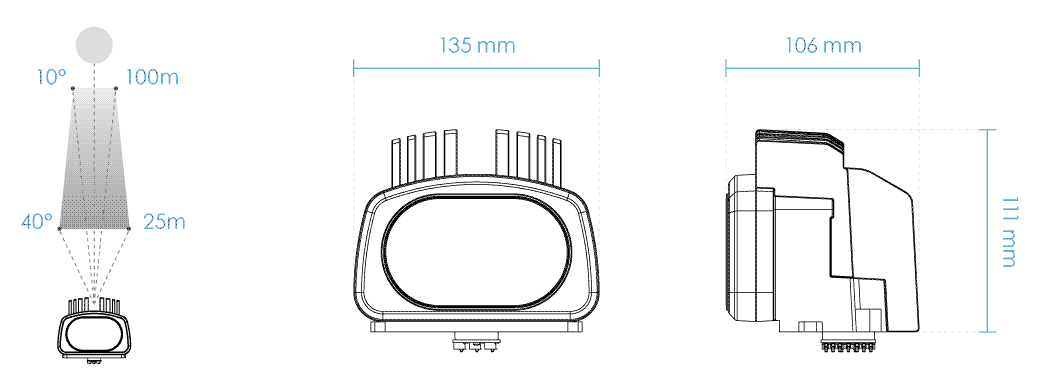
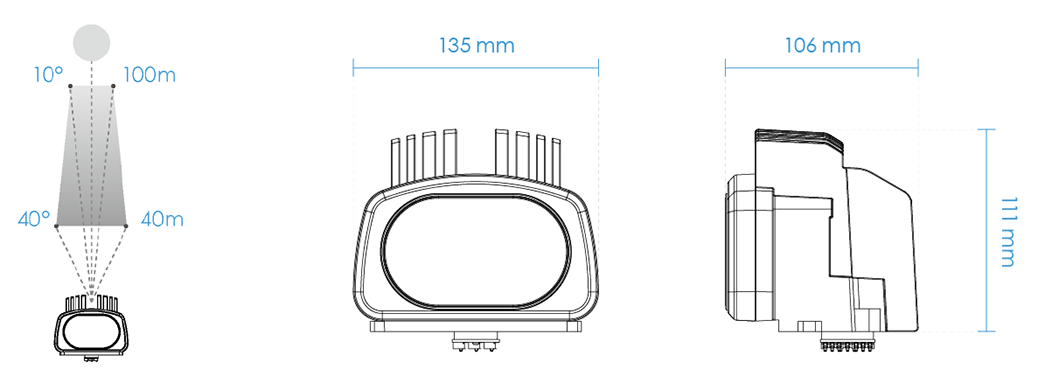
Updates info of illuminator and enclosure accessories

diff --git a/accessories-index/index.html b/accessories-index/index.html
@@ -3900,7 +3900,7 @@
         <div class="block">
          <h1 class="jplist_pro_title_acc_model">AI-106</h1>
          <h1 class="jplist_pro_title_acc_pn">900044200G</h1>
-         <p class="jplist_pro_des_acc">-40&deg;C ~ 50&deg;C, 6W IR illuminator, adjustable beam angle 10&deg; ~ 40&deg;, 25 ~ 100 m</p>
+         <p class="jplist_pro_des_acc">-40&deg;C ~ 50&deg;C, 6W IR illuminator, adjustable beam angle 10&deg; ~ 40&deg;, 40 ~ 100 m</p>
          <div class="acc_btn">
            <a href="accessories/ai-106.html" target="_blank" class="btn btn-default btn-sm">More Info.</a>&nbsp;
            <a href="http://download.vivotek.com/downloadfile/downloads/datasheets/ai-106datasheet_en.pdf" target="_blank" class="btn btn-default btn-sm">Datasheet</a>&nbsp;
@@ -3925,7 +3925,7 @@
         <div class="block">
          <h1 class="jplist_pro_title_acc_model">AI-108</h1>
          <h1 class="jplist_pro_title_acc_pn">900046000G</h1>
-         <p class="jplist_pro_des_acc">-40°C ~ 50°C, 24W IR illuminator, adjustable beam angle 10° ~ 30°, 80 ~ 160 m</p>
+         <p class="jplist_pro_des_acc">-40°C ~ 50°C, 24W IR illuminator, adjustable beam angle 10° ~ 30°, 70 ~ 200 m</p>
          <div class="acc_btn">
            <a href="accessories/ai-108.html" target="_blank" class="btn btn-default btn-sm">More Info.</a>&nbsp;
            <a href="http://download.vivotek.com/downloadfile/downloads/datasheets/ai-108datasheet_en.pdf" target="_blank" class="btn btn-default btn-sm">Datasheet</a>&nbsp;
@@ -3950,7 +3950,7 @@
         <div class="block">
          <h1 class="jplist_pro_title_acc_model">AI-109</h1>
          <h1 class="jplist_pro_title_acc_pn">900046100G</h1>
-         <p class="jplist_pro_des_acc">-40°C ~ 50°C, 48W IR illuminator, adjustable beam angle 10° ~ 30°, 120 ~ 250 m</p>
+         <p class="jplist_pro_des_acc">-40°C ~ 50°C, 48W IR illuminator, adjustable beam angle 10° ~ 30°, 150 ~ 350 m</p>
          <div class="acc_btn">
            <a href="accessories/ai-109.html" target="_blank" class="btn btn-default btn-sm">More Info.</a>&nbsp;
            <a href="http://download.vivotek.com/downloadfile/downloads/datasheets/ai-109datasheet_en.pdf" target="_blank" class="btn btn-default btn-sm">Datasheet</a>&nbsp;

diff --git a/cable/index.html b/cable/index.html
@@ -3900,7 +3900,7 @@
         <div class="block">
          <h1 class="jplist_pro_title_acc_model">AI-106</h1>
          <h1 class="jplist_pro_title_acc_pn">900044200G</h1>
-         <p class="jplist_pro_des_acc">-40&deg;C ~ 50&deg;C, 6W IR illuminator, adjustable beam angle 10&deg; ~ 40&deg;, 25 ~ 100 m</p>
+         <p class="jplist_pro_des_acc">-40&deg;C ~ 50&deg;C, 6W IR illuminator, adjustable beam angle 10&deg; ~ 40&deg;, 40 ~ 100 m</p>
          <div class="acc_btn">
            <a href="accessories/ai-106.html" target="_blank" class="btn btn-default btn-sm">More Info.</a>&nbsp;
            <a href="http://download.vivotek.com/downloadfile/downloads/datasheets/ai-106datasheet_en.pdf" target="_blank" class="btn btn-default btn-sm">Datasheet</a>&nbsp;
@@ -3925,7 +3925,7 @@
         <div class="block">
          <h1 class="jplist_pro_title_acc_model">AI-108</h1>
          <h1 class="jplist_pro_title_acc_pn">900046000G</h1>
-         <p class="jplist_pro_des_acc">-40°C ~ 50°C, 24W IR illuminator, adjustable beam angle 10° ~ 30°, 80 ~ 160 m</p>
+         <p class="jplist_pro_des_acc">-40°C ~ 50°C, 24W IR illuminator, adjustable beam angle 10° ~ 30°, 70 ~ 200 m</p>
          <div class="acc_btn">
            <a href="accessories/ai-108.html" target="_blank" class="btn btn-default btn-sm">More Info.</a>&nbsp;
            <a href="http://download.vivotek.com/downloadfile/downloads/datasheets/ai-108datasheet_en.pdf" target="_blank" class="btn btn-default btn-sm">Datasheet</a>&nbsp;
@@ -3950,7 +3950,7 @@
         <div class="block">
          <h1 class="jplist_pro_title_acc_model">AI-109</h1>
          <h1 class="jplist_pro_title_acc_pn">900046100G</h1>
-         <p class="jplist_pro_des_acc">-40°C ~ 50°C, 48W IR illuminator, adjustable beam angle 10° ~ 30°, 120 ~ 250 m</p>
+         <p class="jplist_pro_des_acc">-40°C ~ 50°C, 48W IR illuminator, adjustable beam angle 10° ~ 30°, 150 ~ 350 m</p>
          <div class="acc_btn">
            <a href="accessories/ai-109.html" target="_blank" class="btn btn-default btn-sm">More Info.</a>&nbsp;
            <a href="http://download.vivotek.com/downloadfile/downloads/datasheets/ai-109datasheet_en.pdf" target="_blank" class="btn btn-default btn-sm">Datasheet</a>&nbsp;

diff --git a/enclosure/index.html b/enclosure/index.html
@@ -3900,7 +3900,7 @@
         <div class="block">
          <h1 class="jplist_pro_title_acc_model">AI-106</h1>
          <h1 class="jplist_pro_title_acc_pn">900044200G</h1>
-         <p class="jplist_pro_des_acc">-40&deg;C ~ 50&deg;C, 6W IR illuminator, adjustable beam angle 10&deg; ~ 40&deg;, 25 ~ 100 m</p>
+         <p class="jplist_pro_des_acc">-40&deg;C ~ 50&deg;C, 6W IR illuminator, adjustable beam angle 10&deg; ~ 40&deg;, 40 ~ 100 m</p>
          <div class="acc_btn">
            <a href="accessories/ai-106.html" target="_blank" class="btn btn-default btn-sm">More Info.</a>&nbsp;
            <a href="http://download.vivotek.com/downloadfile/downloads/datasheets/ai-106datasheet_en.pdf" target="_blank" class="btn btn-default btn-sm">Datasheet</a>&nbsp;
@@ -3925,7 +3925,7 @@
         <div class="block">
          <h1 class="jplist_pro_title_acc_model">AI-108</h1>
          <h1 class="jplist_pro_title_acc_pn">900046000G</h1>
-         <p class="jplist_pro_des_acc">-40°C ~ 50°C, 24W IR illuminator, adjustable beam angle 10° ~ 30°, 80 ~ 160 m</p>
+         <p class="jplist_pro_des_acc">-40°C ~ 50°C, 24W IR illuminator, adjustable beam angle 10° ~ 30°, 70 ~ 200 m</p>
          <div class="acc_btn">
            <a href="accessories/ai-108.html" target="_blank" class="btn btn-default btn-sm">More Info.</a>&nbsp;
            <a href="http://download.vivotek.com/downloadfile/downloads/datasheets/ai-108datasheet_en.pdf" target="_blank" class="btn btn-default btn-sm">Datasheet</a>&nbsp;
@@ -3950,7 +3950,7 @@
         <div class="block">
          <h1 class="jplist_pro_title_acc_model">AI-109</h1>
          <h1 class="jplist_pro_title_acc_pn">900046100G</h1>
-         <p class="jplist_pro_des_acc">-40°C ~ 50°C, 48W IR illuminator, adjustable beam angle 10° ~ 30°, 120 ~ 250 m</p>
+         <p class="jplist_pro_des_acc">-40°C ~ 50°C, 48W IR illuminator, adjustable beam angle 10° ~ 30°, 150 ~ 350 m</p>
          <div class="acc_btn">
            <a href="accessories/ai-109.html" target="_blank" class="btn btn-default btn-sm">More Info.</a>&nbsp;
            <a href="http://download.vivotek.com/downloadfile/downloads/datasheets/ai-109datasheet_en.pdf" target="_blank" class="btn btn-default btn-sm">Datasheet</a>&nbsp;

diff --git a/illuminator/index.html b/illuminator/index.html
@@ -3900,7 +3900,7 @@
         <div class="block">
          <h1 class="jplist_pro_title_acc_model">AI-106</h1>
          <h1 class="jplist_pro_title_acc_pn">900044200G</h1>
-         <p class="jplist_pro_des_acc">-40&deg;C ~ 50&deg;C, 6W IR illuminator, adjustable beam angle 10&deg; ~ 40&deg;, 25 ~ 100 m</p>
+         <p class="jplist_pro_des_acc">-40&deg;C ~ 50&deg;C, 6W IR illuminator, adjustable beam angle 10&deg; ~ 40&deg;, 40 ~ 100 m</p>
          <div class="acc_btn">
            <a href="accessories/ai-106.html" target="_blank" class="btn btn-default btn-sm">More Info.</a>&nbsp;
            <a href="http://download.vivotek.com/downloadfile/downloads/datasheets/ai-106datasheet_en.pdf" target="_blank" class="btn btn-default btn-sm">Datasheet</a>&nbsp;
@@ -3925,7 +3925,7 @@
         <div class="block">
          <h1 class="jplist_pro_title_acc_model">AI-108</h1>
          <h1 class="jplist_pro_title_acc_pn">900046000G</h1>
-         <p class="jplist_pro_des_acc">-40°C ~ 50°C, 24W IR illuminator, adjustable beam angle 10° ~ 30°, 80 ~ 160 m</p>
+         <p class="jplist_pro_des_acc">-40°C ~ 50°C, 24W IR illuminator, adjustable beam angle 10° ~ 30°, 70 ~ 200 m</p>
          <div class="acc_btn">
            <a href="accessories/ai-108.html" target="_blank" class="btn btn-default btn-sm">More Info.</a>&nbsp;
            <a href="http://download.vivotek.com/downloadfile/downloads/datasheets/ai-108datasheet_en.pdf" target="_blank" class="btn btn-default btn-sm">Datasheet</a>&nbsp;
@@ -3950,7 +3950,7 @@
         <div class="block">
          <h1 class="jplist_pro_title_acc_model">AI-109</h1>
          <h1 class="jplist_pro_title_acc_pn">900046100G</h1>
-         <p class="jplist_pro_des_acc">-40°C ~ 50°C, 48W IR illuminator, adjustable beam angle 10° ~ 30°, 120 ~ 250 m</p>
+         <p class="jplist_pro_des_acc">-40°C ~ 50°C, 48W IR illuminator, adjustable beam angle 10° ~ 30°, 150 ~ 350 m</p>
          <div class="acc_btn">
            <a href="accessories/ai-109.html" target="_blank" class="btn btn-default btn-sm">More Info.</a>&nbsp;
            <a href="http://download.vivotek.com/downloadfile/downloads/datasheets/ai-109datasheet_en.pdf" target="_blank" class="btn btn-default btn-sm">Datasheet</a>&nbsp;

diff --git a/industrial-power-supply/index.html b/industrial-power-supply/index.html
@@ -3900,7 +3900,7 @@
         <div class="block">
          <h1 class="jplist_pro_title_acc_model">AI-106</h1>
          <h1 class="jplist_pro_title_acc_pn">900044200G</h1>
-         <p class="jplist_pro_des_acc">-40&deg;C ~ 50&deg;C, 6W IR illuminator, adjustable beam angle 10&deg; ~ 40&deg;, 25 ~ 100 m</p>
+         <p class="jplist_pro_des_acc">-40&deg;C ~ 50&deg;C, 6W IR illuminator, adjustable beam angle 10&deg; ~ 40&deg;, 40 ~ 100 m</p>
          <div class="acc_btn">
            <a href="accessories/ai-106.html" target="_blank" class="btn btn-default btn-sm">More Info.</a>&nbsp;
            <a href="http://download.vivotek.com/downloadfile/downloads/datasheets/ai-106datasheet_en.pdf" target="_blank" class="btn btn-default btn-sm">Datasheet</a>&nbsp;
@@ -3925,7 +3925,7 @@
         <div class="block">
          <h1 class="jplist_pro_title_acc_model">AI-108</h1>
          <h1 class="jplist_pro_title_acc_pn">900046000G</h1>
-         <p class="jplist_pro_des_acc">-40°C ~ 50°C, 24W IR illuminator, adjustable beam angle 10° ~ 30°, 80 ~ 160 m</p>
+         <p class="jplist_pro_des_acc">-40°C ~ 50°C, 24W IR illuminator, adjustable beam angle 10° ~ 30°, 70 ~ 200 m</p>
          <div class="acc_btn">
            <a href="accessories/ai-108.html" target="_blank" class="btn btn-default btn-sm">More Info.</a>&nbsp;
            <a href="http://download.vivotek.com/downloadfile/downloads/datasheets/ai-108datasheet_en.pdf" target="_blank" class="btn btn-default btn-sm">Datasheet</a>&nbsp;
@@ -3950,7 +3950,7 @@
         <div class="block">
          <h1 class="jplist_pro_title_acc_model">AI-109</h1>
          <h1 class="jplist_pro_title_acc_pn">900046100G</h1>
-         <p class="jplist_pro_des_acc">-40°C ~ 50°C, 48W IR illuminator, adjustable beam angle 10° ~ 30°, 120 ~ 250 m</p>
+         <p class="jplist_pro_des_acc">-40°C ~ 50°C, 48W IR illuminator, adjustable beam angle 10° ~ 30°, 150 ~ 350 m</p>
          <div class="acc_btn">
            <a href="accessories/ai-109.html" target="_blank" class="btn btn-default btn-sm">More Info.</a>&nbsp;
            <a href="http://download.vivotek.com/downloadfile/downloads/datasheets/ai-109datasheet_en.pdf" target="_blank" class="btn btn-default btn-sm">Datasheet</a>&nbsp;

diff --git a/joystick/index.html b/joystick/index.html
@@ -3900,7 +3900,7 @@
         <div class="block">
          <h1 class="jplist_pro_title_acc_model">AI-106</h1>
          <h1 class="jplist_pro_title_acc_pn">900044200G</h1>
-         <p class="jplist_pro_des_acc">-40&deg;C ~ 50&deg;C, 6W IR illuminator, adjustable beam angle 10&deg; ~ 40&deg;, 25 ~ 100 m</p>
+         <p class="jplist_pro_des_acc">-40&deg;C ~ 50&deg;C, 6W IR illuminator, adjustable beam angle 10&deg; ~ 40&deg;, 40 ~ 100 m</p>
          <div class="acc_btn">
            <a href="accessories/ai-106.html" target="_blank" class="btn btn-default btn-sm">More Info.</a>&nbsp;
            <a href="http://download.vivotek.com/downloadfile/downloads/datasheets/ai-106datasheet_en.pdf" target="_blank" class="btn btn-default btn-sm">Datasheet</a>&nbsp;
@@ -3925,7 +3925,7 @@
         <div class="block">
          <h1 class="jplist_pro_title_acc_model">AI-108</h1>
          <h1 class="jplist_pro_title_acc_pn">900046000G</h1>
-         <p class="jplist_pro_des_acc">-40°C ~ 50°C, 24W IR illuminator, adjustable beam angle 10° ~ 30°, 80 ~ 160 m</p>
+         <p class="jplist_pro_des_acc">-40°C ~ 50°C, 24W IR illuminator, adjustable beam angle 10° ~ 30°, 70 ~ 200 m</p>
          <div class="acc_btn">
            <a href="accessories/ai-108.html" target="_blank" class="btn btn-default btn-sm">More Info.</a>&nbsp;
            <a href="http://download.vivotek.com/downloadfile/downloads/datasheets/ai-108datasheet_en.pdf" target="_blank" class="btn btn-default btn-sm">Datasheet</a>&nbsp;
@@ -3950,7 +3950,7 @@
         <div class="block">
          <h1 class="jplist_pro_title_acc_model">AI-109</h1>
          <h1 class="jplist_pro_title_acc_pn">900046100G</h1>
-         <p class="jplist_pro_des_acc">-40°C ~ 50°C, 48W IR illuminator, adjustable beam angle 10° ~ 30°, 120 ~ 250 m</p>
+         <p class="jplist_pro_des_acc">-40°C ~ 50°C, 48W IR illuminator, adjustable beam angle 10° ~ 30°, 150 ~ 350 m</p>
          <div class="acc_btn">
            <a href="accessories/ai-109.html" target="_blank" class="btn btn-default btn-sm">More Info.</a>&nbsp;
            <a href="http://download.vivotek.com/downloadfile/downloads/datasheets/ai-109datasheet_en.pdf" target="_blank" class="btn btn-default btn-sm">Datasheet</a>&nbsp;

diff --git a/lens/index.html b/lens/index.html
@@ -3900,7 +3900,7 @@
         <div class="block">
          <h1 class="jplist_pro_title_acc_model">AI-106</h1>
          <h1 class="jplist_pro_title_acc_pn">900044200G</h1>
-         <p class="jplist_pro_des_acc">-40&deg;C ~ 50&deg;C, 6W IR illuminator, adjustable beam angle 10&deg; ~ 40&deg;, 25 ~ 100 m</p>
+         <p class="jplist_pro_des_acc">-40&deg;C ~ 50&deg;C, 6W IR illuminator, adjustable beam angle 10&deg; ~ 40&deg;, 40 ~ 100 m</p>
          <div class="acc_btn">
            <a href="accessories/ai-106.html" target="_blank" class="btn btn-default btn-sm">More Info.</a>&nbsp;
            <a href="http://download.vivotek.com/downloadfile/downloads/datasheets/ai-106datasheet_en.pdf" target="_blank" class="btn btn-default btn-sm">Datasheet</a>&nbsp;
@@ -3925,7 +3925,7 @@
         <div class="block">
          <h1 class="jplist_pro_title_acc_model">AI-108</h1>
          <h1 class="jplist_pro_title_acc_pn">900046000G</h1>
-         <p class="jplist_pro_des_acc">-40°C ~ 50°C, 24W IR illuminator, adjustable beam angle 10° ~ 30°, 80 ~ 160 m</p>
+         <p class="jplist_pro_des_acc">-40°C ~ 50°C, 24W IR illuminator, adjustable beam angle 10° ~ 30°, 70 ~ 200 m</p>
          <div class="acc_btn">
            <a href="accessories/ai-108.html" target="_blank" class="btn btn-default btn-sm">More Info.</a>&nbsp;
            <a href="http://download.vivotek.com/downloadfile/downloads/datasheets/ai-108datasheet_en.pdf" target="_blank" class="btn btn-default btn-sm">Datasheet</a>&nbsp;
@@ -3950,7 +3950,7 @@
         <div class="block">
          <h1 class="jplist_pro_title_acc_model">AI-109</h1>
          <h1 class="jplist_pro_title_acc_pn">900046100G</h1>
-         <p class="jplist_pro_des_acc">-40°C ~ 50°C, 48W IR illuminator, adjustable beam angle 10° ~ 30°, 120 ~ 250 m</p>
+         <p class="jplist_pro_des_acc">-40°C ~ 50°C, 48W IR illuminator, adjustable beam angle 10° ~ 30°, 150 ~ 350 m</p>
          <div class="acc_btn">
            <a href="accessories/ai-109.html" target="_blank" class="btn btn-default btn-sm">More Info.</a>&nbsp;
            <a href="http://download.vivotek.com/downloadfile/downloads/datasheets/ai-109datasheet_en.pdf" target="_blank" class="btn btn-default btn-sm">Datasheet</a>&nbsp;

diff --git a/mounting-kit/index.html b/mounting-kit/index.html
@@ -3900,7 +3900,7 @@
         <div class="block">
          <h1 class="jplist_pro_title_acc_model">AI-106</h1>
          <h1 class="jplist_pro_title_acc_pn">900044200G</h1>
-         <p class="jplist_pro_des_acc">-40&deg;C ~ 50&deg;C, 6W IR illuminator, adjustable beam angle 10&deg; ~ 40&deg;, 25 ~ 100 m</p>
+         <p class="jplist_pro_des_acc">-40&deg;C ~ 50&deg;C, 6W IR illuminator, adjustable beam angle 10&deg; ~ 40&deg;, 40 ~ 100 m</p>
          <div class="acc_btn">
            <a href="accessories/ai-106.html" target="_blank" class="btn btn-default btn-sm">More Info.</a>&nbsp;
            <a href="http://download.vivotek.com/downloadfile/downloads/datasheets/ai-106datasheet_en.pdf" target="_blank" class="btn btn-default btn-sm">Datasheet</a>&nbsp;
@@ -3925,7 +3925,7 @@
         <div class="block">
          <h1 class="jplist_pro_title_acc_model">AI-108</h1>
          <h1 class="jplist_pro_title_acc_pn">900046000G</h1>
-         <p class="jplist_pro_des_acc">-40°C ~ 50°C, 24W IR illuminator, adjustable beam angle 10° ~ 30°, 80 ~ 160 m</p>
+         <p class="jplist_pro_des_acc">-40°C ~ 50°C, 24W IR illuminator, adjustable beam angle 10° ~ 30°, 70 ~ 200 m</p>
          <div class="acc_btn">
            <a href="accessories/ai-108.html" target="_blank" class="btn btn-default btn-sm">More Info.</a>&nbsp;
            <a href="http://download.vivotek.com/downloadfile/downloads/datasheets/ai-108datasheet_en.pdf" target="_blank" class="btn btn-default btn-sm">Datasheet</a>&nbsp;
@@ -3950,7 +3950,7 @@
         <div class="block">
          <h1 class="jplist_pro_title_acc_model">AI-109</h1>
          <h1 class="jplist_pro_title_acc_pn">900046100G</h1>
-         <p class="jplist_pro_des_acc">-40°C ~ 50°C, 48W IR illuminator, adjustable beam angle 10° ~ 30°, 120 ~ 250 m</p>
+         <p class="jplist_pro_des_acc">-40°C ~ 50°C, 48W IR illuminator, adjustable beam angle 10° ~ 30°, 150 ~ 350 m</p>
          <div class="acc_btn">
            <a href="accessories/ai-109.html" target="_blank" class="btn btn-default btn-sm">More Info.</a>&nbsp;
            <a href="http://download.vivotek.com/downloadfile/downloads/datasheets/ai-109datasheet_en.pdf" target="_blank" class="btn btn-default btn-sm">Datasheet</a>&nbsp;

diff --git a/power-supply/index.html b/power-supply/index.html
@@ -3900,7 +3900,7 @@
         <div class="block">
          <h1 class="jplist_pro_title_acc_model">AI-106</h1>
          <h1 class="jplist_pro_title_acc_pn">900044200G</h1>
-         <p class="jplist_pro_des_acc">-40&deg;C ~ 50&deg;C, 6W IR illuminator, adjustable beam angle 10&deg; ~ 40&deg;, 25 ~ 100 m</p>
+         <p class="jplist_pro_des_acc">-40&deg;C ~ 50&deg;C, 6W IR illuminator, adjustable beam angle 10&deg; ~ 40&deg;, 40 ~ 100 m</p>
          <div class="acc_btn">
            <a href="accessories/ai-106.html" target="_blank" class="btn btn-default btn-sm">More Info.</a>&nbsp;
            <a href="http://download.vivotek.com/downloadfile/downloads/datasheets/ai-106datasheet_en.pdf" target="_blank" class="btn btn-default btn-sm">Datasheet</a>&nbsp;
@@ -3925,7 +3925,7 @@
         <div class="block">
          <h1 class="jplist_pro_title_acc_model">AI-108</h1>
          <h1 class="jplist_pro_title_acc_pn">900046000G</h1>
-         <p class="jplist_pro_des_acc">-40°C ~ 50°C, 24W IR illuminator, adjustable beam angle 10° ~ 30°, 80 ~ 160 m</p>
+         <p class="jplist_pro_des_acc">-40°C ~ 50°C, 24W IR illuminator, adjustable beam angle 10° ~ 30°, 70 ~ 200 m</p>
          <div class="acc_btn">
            <a href="accessories/ai-108.html" target="_blank" class="btn btn-default btn-sm">More Info.</a>&nbsp;
            <a href="http://download.vivotek.com/downloadfile/downloads/datasheets/ai-108datasheet_en.pdf" target="_blank" class="btn btn-default btn-sm">Datasheet</a>&nbsp;
@@ -3950,7 +3950,7 @@
         <div class="block">
          <h1 class="jplist_pro_title_acc_model">AI-109</h1>
          <h1 class="jplist_pro_title_acc_pn">900046100G</h1>
-         <p class="jplist_pro_des_acc">-40°C ~ 50°C, 48W IR illuminator, adjustable beam angle 10° ~ 30°, 120 ~ 250 m</p>
+         <p class="jplist_pro_des_acc">-40°C ~ 50°C, 48W IR illuminator, adjustable beam angle 10° ~ 30°, 150 ~ 350 m</p>
          <div class="acc_btn">
            <a href="accessories/ai-109.html" target="_blank" class="btn btn-default btn-sm">More Info.</a>&nbsp;
            <a href="http://download.vivotek.com/downloadfile/downloads/datasheets/ai-109datasheet_en.pdf" target="_blank" class="btn btn-default btn-sm">Datasheet</a>&nbsp;

diff --git a/storage/index.html b/storage/index.html
@@ -3900,7 +3900,7 @@
         <div class="block">
          <h1 class="jplist_pro_title_acc_model">AI-106</h1>
          <h1 class="jplist_pro_title_acc_pn">900044200G</h1>
-         <p class="jplist_pro_des_acc">-40&deg;C ~ 50&deg;C, 6W IR illuminator, adjustable beam angle 10&deg; ~ 40&deg;, 25 ~ 100 m</p>
+         <p class="jplist_pro_des_acc">-40&deg;C ~ 50&deg;C, 6W IR illuminator, adjustable beam angle 10&deg; ~ 40&deg;, 40 ~ 100 m</p>
          <div class="acc_btn">
            <a href="accessories/ai-106.html" target="_blank" class="btn btn-default btn-sm">More Info.</a>&nbsp;
            <a href="http://download.vivotek.com/downloadfile/downloads/datasheets/ai-106datasheet_en.pdf" target="_blank" class="btn btn-default btn-sm">Datasheet</a>&nbsp;
@@ -3925,7 +3925,7 @@
         <div class="block">
          <h1 class="jplist_pro_title_acc_model">AI-108</h1>
          <h1 class="jplist_pro_title_acc_pn">900046000G</h1>
-         <p class="jplist_pro_des_acc">-40°C ~ 50°C, 24W IR illuminator, adjustable beam angle 10° ~ 30°, 80 ~ 160 m</p>
+         <p class="jplist_pro_des_acc">-40°C ~ 50°C, 24W IR illuminator, adjustable beam angle 10° ~ 30°, 70 ~ 200 m</p>
          <div class="acc_btn">
            <a href="accessories/ai-108.html" target="_blank" class="btn btn-default btn-sm">More Info.</a>&nbsp;
            <a href="http://download.vivotek.com/downloadfile/downloads/datasheets/ai-108datasheet_en.pdf" target="_blank" class="btn btn-default btn-sm">Datasheet</a>&nbsp;
@@ -3950,7 +3950,7 @@
         <div class="block">
          <h1 class="jplist_pro_title_acc_model">AI-109</h1>
          <h1 class="jplist_pro_title_acc_pn">900046100G</h1>
-         <p class="jplist_pro_des_acc">-40°C ~ 50°C, 48W IR illuminator, adjustable beam angle 10° ~ 30°, 120 ~ 250 m</p>
+         <p class="jplist_pro_des_acc">-40°C ~ 50°C, 48W IR illuminator, adjustable beam angle 10° ~ 30°, 150 ~ 350 m</p>
          <div class="acc_btn">
            <a href="accessories/ai-109.html" target="_blank" class="btn btn-default btn-sm">More Info.</a>&nbsp;
            <a href="http://download.vivotek.com/downloadfile/downloads/datasheets/ai-109datasheet_en.pdf" target="_blank" class="btn btn-default btn-sm">Datasheet</a>&nbsp;

diff --git a/wireless/index.html b/wireless/index.html
@@ -3900,7 +3900,7 @@
         <div class="block">
          <h1 class="jplist_pro_title_acc_model">AI-106</h1>
          <h1 class="jplist_pro_title_acc_pn">900044200G</h1>
-         <p class="jplist_pro_des_acc">-40&deg;C ~ 50&deg;C, 6W IR illuminator, adjustable beam angle 10&deg; ~ 40&deg;, 25 ~ 100 m</p>
+         <p class="jplist_pro_des_acc">-40&deg;C ~ 50&deg;C, 6W IR illuminator, adjustable beam angle 10&deg; ~ 40&deg;, 40 ~ 100 m</p>
          <div class="acc_btn">
            <a href="accessories/ai-106.html" target="_blank" class="btn btn-default btn-sm">More Info.</a>&nbsp;
            <a href="http://download.vivotek.com/downloadfile/downloads/datasheets/ai-106datasheet_en.pdf" target="_blank" class="btn btn-default btn-sm">Datasheet</a>&nbsp;
@@ -3925,7 +3925,7 @@
         <div class="block">
          <h1 class="jplist_pro_title_acc_model">AI-108</h1>
          <h1 class="jplist_pro_title_acc_pn">900046000G</h1>
-         <p class="jplist_pro_des_acc">-40°C ~ 50°C, 24W IR illuminator, adjustable beam angle 10° ~ 30°, 80 ~ 160 m</p>
+         <p class="jplist_pro_des_acc">-40°C ~ 50°C, 24W IR illuminator, adjustable beam angle 10° ~ 30°, 70 ~ 200 m</p>
          <div class="acc_btn">
            <a href="accessories/ai-108.html" target="_blank" class="btn btn-default btn-sm">More Info.</a>&nbsp;
            <a href="http://download.vivotek.com/downloadfile/downloads/datasheets/ai-108datasheet_en.pdf" target="_blank" class="btn btn-default btn-sm">Datasheet</a>&nbsp;
@@ -3950,7 +3950,7 @@
         <div class="block">
          <h1 class="jplist_pro_title_acc_model">AI-109</h1>
          <h1 class="jplist_pro_title_acc_pn">900046100G</h1>
-         <p class="jplist_pro_des_acc">-40°C ~ 50°C, 48W IR illuminator, adjustable beam angle 10° ~ 30°, 120 ~ 250 m</p>
+         <p class="jplist_pro_des_acc">-40°C ~ 50°C, 48W IR illuminator, adjustable beam angle 10° ~ 30°, 150 ~ 350 m</p>
          <div class="acc_btn">
            <a href="accessories/ai-109.html" target="_blank" class="btn btn-default btn-sm">More Info.</a>&nbsp;
            <a href="http://download.vivotek.com/downloadfile/downloads/datasheets/ai-109datasheet_en.pdf" target="_blank" class="btn btn-default btn-sm">Datasheet</a>&nbsp;

diff --git a/accessories/ae-23a.html b/accessories/ae-23a.html
@@ -158,7 +158,7 @@
         </tr>
         <tr>
             <td>Optional Vari IR Illuminators Power consumption</td>
-            <td colspan="3">AI-106 : 6W<br>
+            <td colspan="3">AI-106: 6W<br>
                 AI-108: 24W<br>
                 AI-109: 48W
             </td>
@@ -196,15 +196,15 @@
             <td>Optional Accessories: VAIR Illuminator</td>
             <td><img src="image/all/icon_products/ai-106-vair.png" alt="AI-106" class="img_center">
             <p class="text_center" style="margin: 0em;">AI-106<br>
-            6W, 10° ~ 40°, 25 ~ 100m</p>
+            6W, 10° ~ 40°, 40 ~ 100m</p>
             </td>
             <td><img src="image/all/icon_products/ai-108-vair.png" alt="AI-108" class="img_center">
              <p class="text_center" style="margin: 0em;">AI-108<br>
-            24W, 10° ~ 30°, 80 ~ 160m</p>
+            24W, 10° ~ 30°, 70 ~ 200m</p>
             </td>
             <td><img src="image/all/icon_products/ai-109-vair.png" alt="AI-109" class="img_center">
              <p class="text_center" style="margin: 0em;">AI-109<br>
-            48W, 10° ~ 30°, 120 ~ 200m</p>
+            48W, 10° ~ 30°, 150 ~ 350m</p>
             </td>
         </tr>
         <tr>
